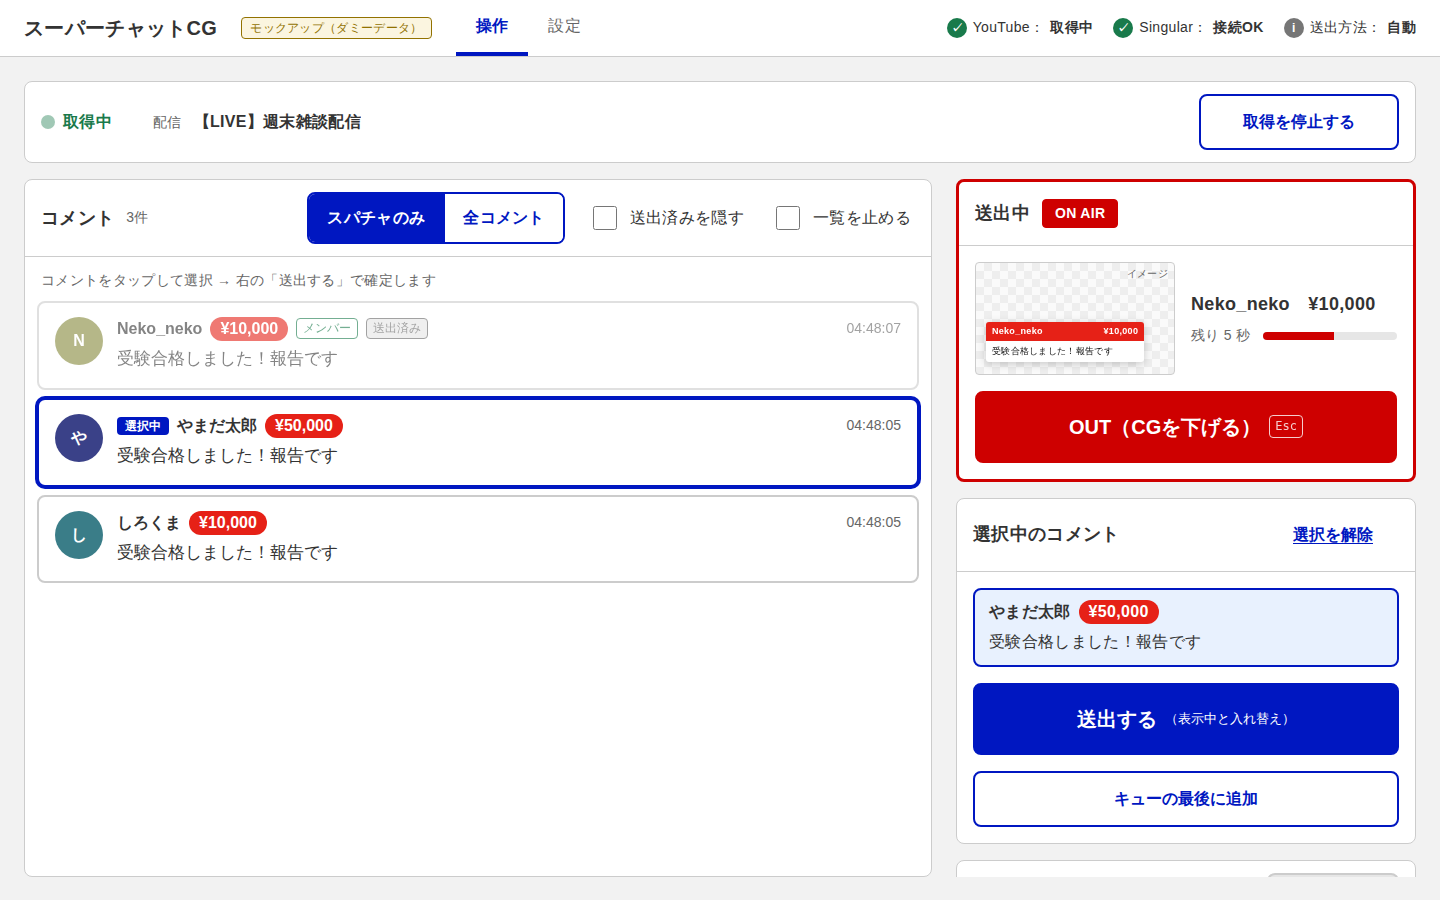
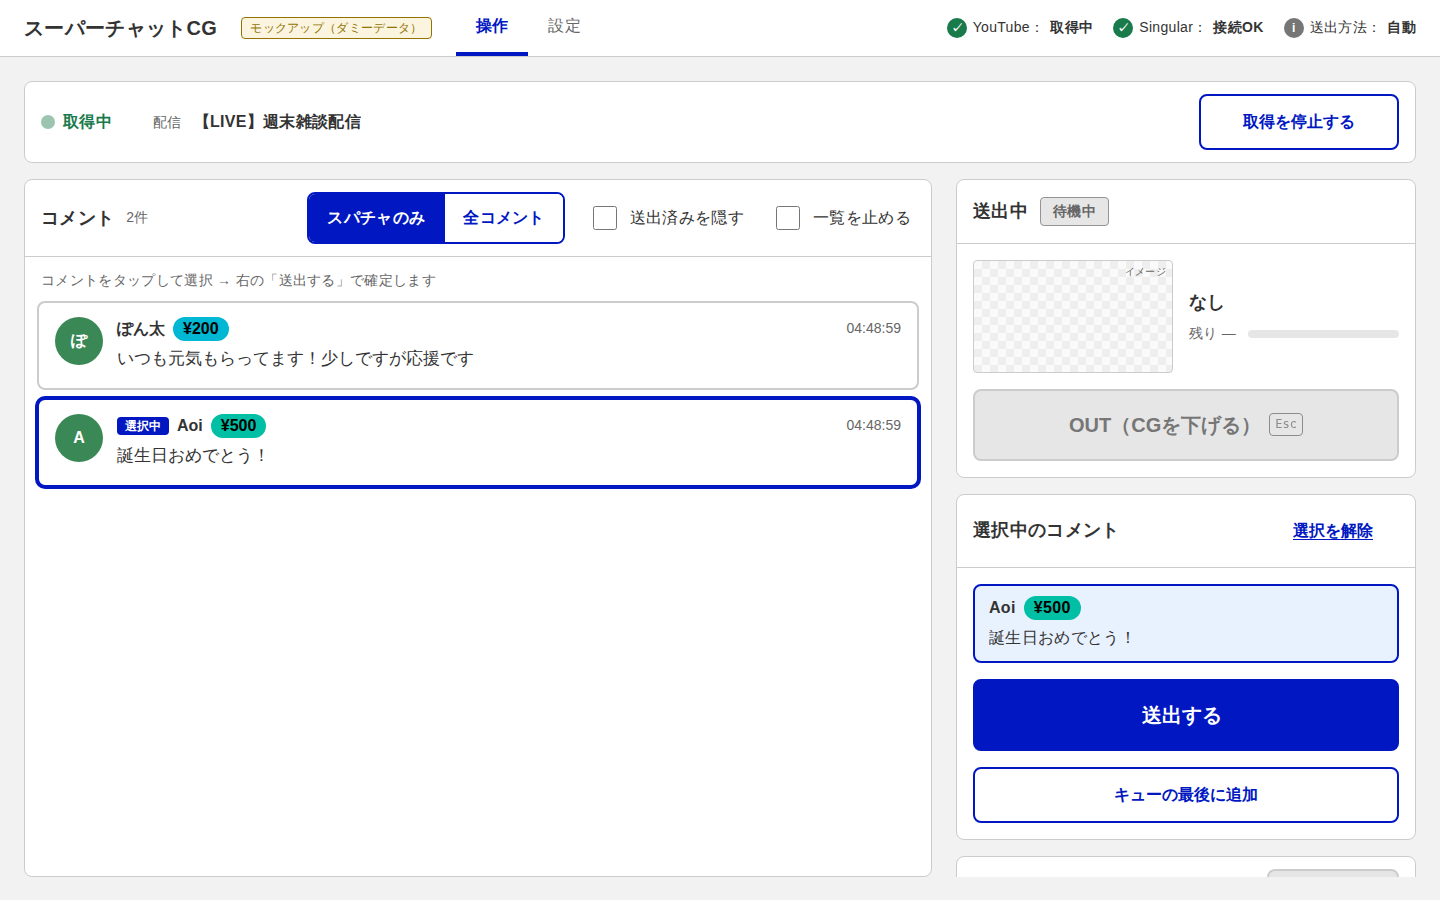
スパチャ金額バッジの色を YouTube の金額帯カラーに準拠
Claude-Session: https://claude.ai/code/session_01KgT6C3iMZ94U8jAFNjMxFV

diff --git a/lib/youtube.js b/lib/youtube.js
@@ -7,6 +7,27 @@ const API = 'https://www.googleapis.com/youtube/v3';
 // 再試行しても直らないエラー（キー不正・クォータ超過・チャット終了など）
 const RETRYABLE_REASONS = new Set(['rateLimitExceeded', 'backendError', 'internalError']);
 
+// YouTube スーパーチャットの金額帯カラー（tier 1〜7、日本円では ¥100 / ¥200 / ¥500 / ¥1,000 / ¥2,000 / ¥5,000 / ¥10,000〜）
+const TIER_COLORS = {
+  1: { header: '#1565c0', body: '#1e88e5', text: '#ffffff' },
+  2: { header: '#00b8d4', body: '#00e5ff', text: '#000000' },
+  3: { header: '#00bfa5', body: '#1de9b6', text: '#000000' },
+  4: { header: '#ffb300', body: '#ffca28', text: '#000000' },
+  5: { header: '#e65100', body: '#f57c00', text: '#ffffff' },
+  6: { header: '#c2185b', body: '#e91e63', text: '#ffffff' },
+  7: { header: '#d00000', body: '#e62117', text: '#ffffff' },
+};
+const JPY_TIER_MIN = [0, 200, 500, 1000, 2000, 5000, 10000];
+
+function tierColors(msg) {
+  let t = Number(msg.tier) || 0;
+  if (msg.currency === 'JPY' && msg.amountMicros) {
+    const yen = msg.amountMicros / 1e6;
+    t = JPY_TIER_MIN.filter((min) => yen >= min).length;
+  }
+  return TIER_COLORS[Math.min(Math.max(t, 1), 7)];
+}
+
 function extractVideoId(input) {
   const s = String(input || '').trim();
   if (/^[\w-]{11}$/.test(s)) return s;
@@ -43,6 +64,10 @@ async function ytGet(resource, params) {
   return body;
 }
 
+function withColors(msg) {
+  return { ...msg, colors: tierColors(msg) };
+}
+
 function normalize(item) {
   const sn = item.snippet || {};
   const au = item.authorDetails || {};
@@ -69,7 +94,7 @@ function normalize(item) {
       return base;
     case 'superChatEvent': {
       const d = sn.superChatDetails || {};
-      return {
+      return withColors({
         ...base,
         type: 'superchat',
         amount: d.amountDisplayString || '',
@@ -77,11 +102,11 @@ function normalize(item) {
         currency: d.currency || '',
         tier: d.tier ?? null,
         comment: d.userComment || '',
-      };
+      });
     }
     case 'superStickerEvent': {
       const d = sn.superStickerDetails || {};
-      return {
+      return withColors({
         ...base,
         type: 'supersticker',
         amount: d.amountDisplayString || '',
@@ -89,7 +114,7 @@ function normalize(item) {
         currency: d.currency || '',
         tier: d.tier ?? null,
         comment: d.superStickerMetadata?.altText || '',
-      };
+      });
     }
     default:
       // メンバー加入・削除イベントなどは対象外
@@ -213,4 +238,4 @@ class YouTubeLiveChat extends EventEmitter {
   }
 }
 
-module.exports = { YouTubeLiveChat, extractVideoId, normalize };
+module.exports = { YouTubeLiveChat, extractVideoId, normalize, tierColors, TIER_COLORS };

diff --git a/mockup/index.html b/mockup/index.html
@@ -124,23 +124,26 @@ const NAMES = ['たなか', 'Sakura Ch.', 'ぽん太', 'ゆうき', 'Mika', 'や
 const TEXTS = ['こんばんは！', '今日も楽しみにしてました', 'いつも応援してます！！', '初見です', 'その話もっと聞きたい', 'おつかれさまです', 'ナイス！', '声かわいい', 'BGMいいですね'];
 const SC_TEXTS = ['いつも元気もらってます！少しですが応援です', '誕生日おめでとう！', 'グッズ代にしてください', '', '昨日の配信最高でした', '受験合格しました！報告です'];
 const AMOUNTS = [100, 200, 500, 1000, 2000, 5000, 10000, 50000];
-function tier(yen) { // YouTube の金額帯の色 [背景, 文字]
-  if (yen >= 10000) return ['#e62117', '#fff'];
-  if (yen >= 5000) return ['#e91e63', '#fff'];
-  if (yen >= 2000) return ['#e65100', '#fff'];
-  if (yen >= 1000) return ['#ffca28', '#1a1a1a'];
-  if (yen >= 500) return ['#1de9b6', '#1a1a1a'];
-  if (yen >= 200) return ['#00e5ff', '#1a1a1a'];
-  return ['#1565c0', '#fff'];
-}
+// YouTube スーパーチャットの金額帯カラー（日本円基準）
+// header = 名前・金額部分の色（バッジに使用） / body = コメント部分の色 / text = 文字色
+const TIERS = [
+  { min: 10000, header: '#d00000', body: '#e62117', text: '#ffffff' }, // 赤
+  { min: 5000,  header: '#c2185b', body: '#e91e63', text: '#ffffff' }, // マゼンタ
+  { min: 2000,  header: '#e65100', body: '#f57c00', text: '#ffffff' }, // オレンジ
+  { min: 1000,  header: '#ffb300', body: '#ffca28', text: '#000000' }, // 黄
+  { min: 500,   header: '#00bfa5', body: '#1de9b6', text: '#000000' }, // 緑
+  { min: 200,   header: '#00b8d4', body: '#00e5ff', text: '#000000' }, // 水色
+  { min: 0,     header: '#1565c0', body: '#1e88e5', text: '#ffffff' }, // 青
+];
+const tier = yen => TIERS.find(t => yen >= t.min);
 const pick = a => a[Math.floor(Math.random() * a.length)];
 let seq = 0;
 function dummy(forceSc) {
   const sc = forceSc || Math.random() < 0.25;
   const yen = pick(AMOUNTS);
-  const [bg, fg] = sc ? tier(yen) : [null, null];
+  const t = sc ? tier(yen) : null;
   return { id: 'm' + (++seq), name: pick(NAMES), time: new Date(), type: sc ? 'superchat' : 'text',
-    amount: sc ? '¥' + yen.toLocaleString() : '', tier: bg, tierFg: fg,
+    amount: sc ? '¥' + yen.toLocaleString() : '', tier: t?.header, tierFg: t?.text,
     comment: sc ? pick(SC_TEXTS) : pick(TEXTS), member: Math.random() < 0.2, sent: false, fresh: true };
 }
 
